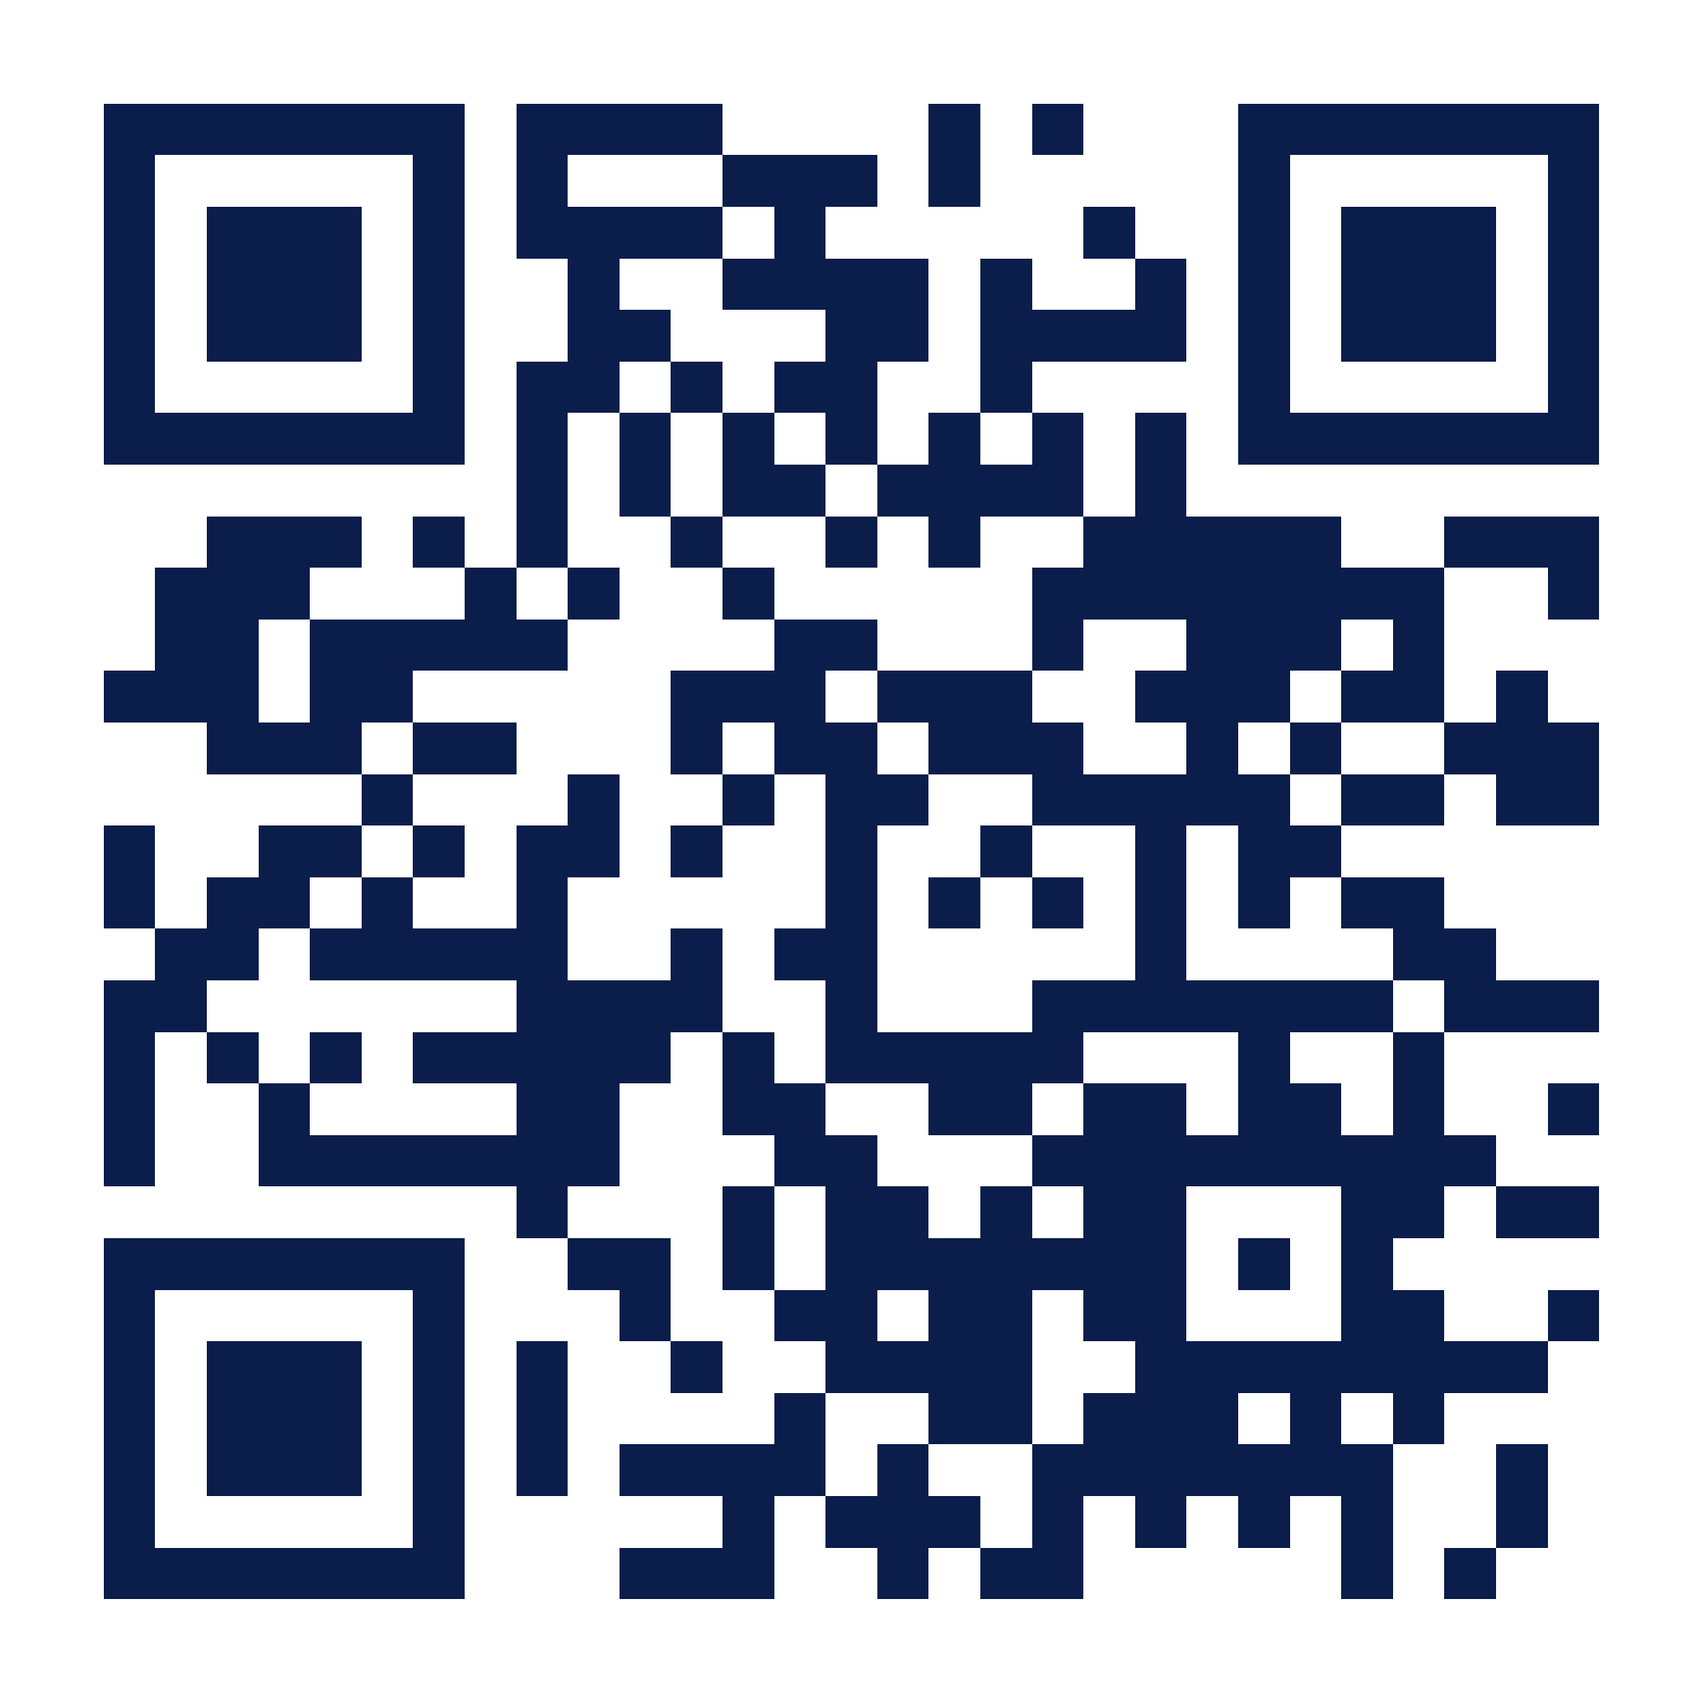
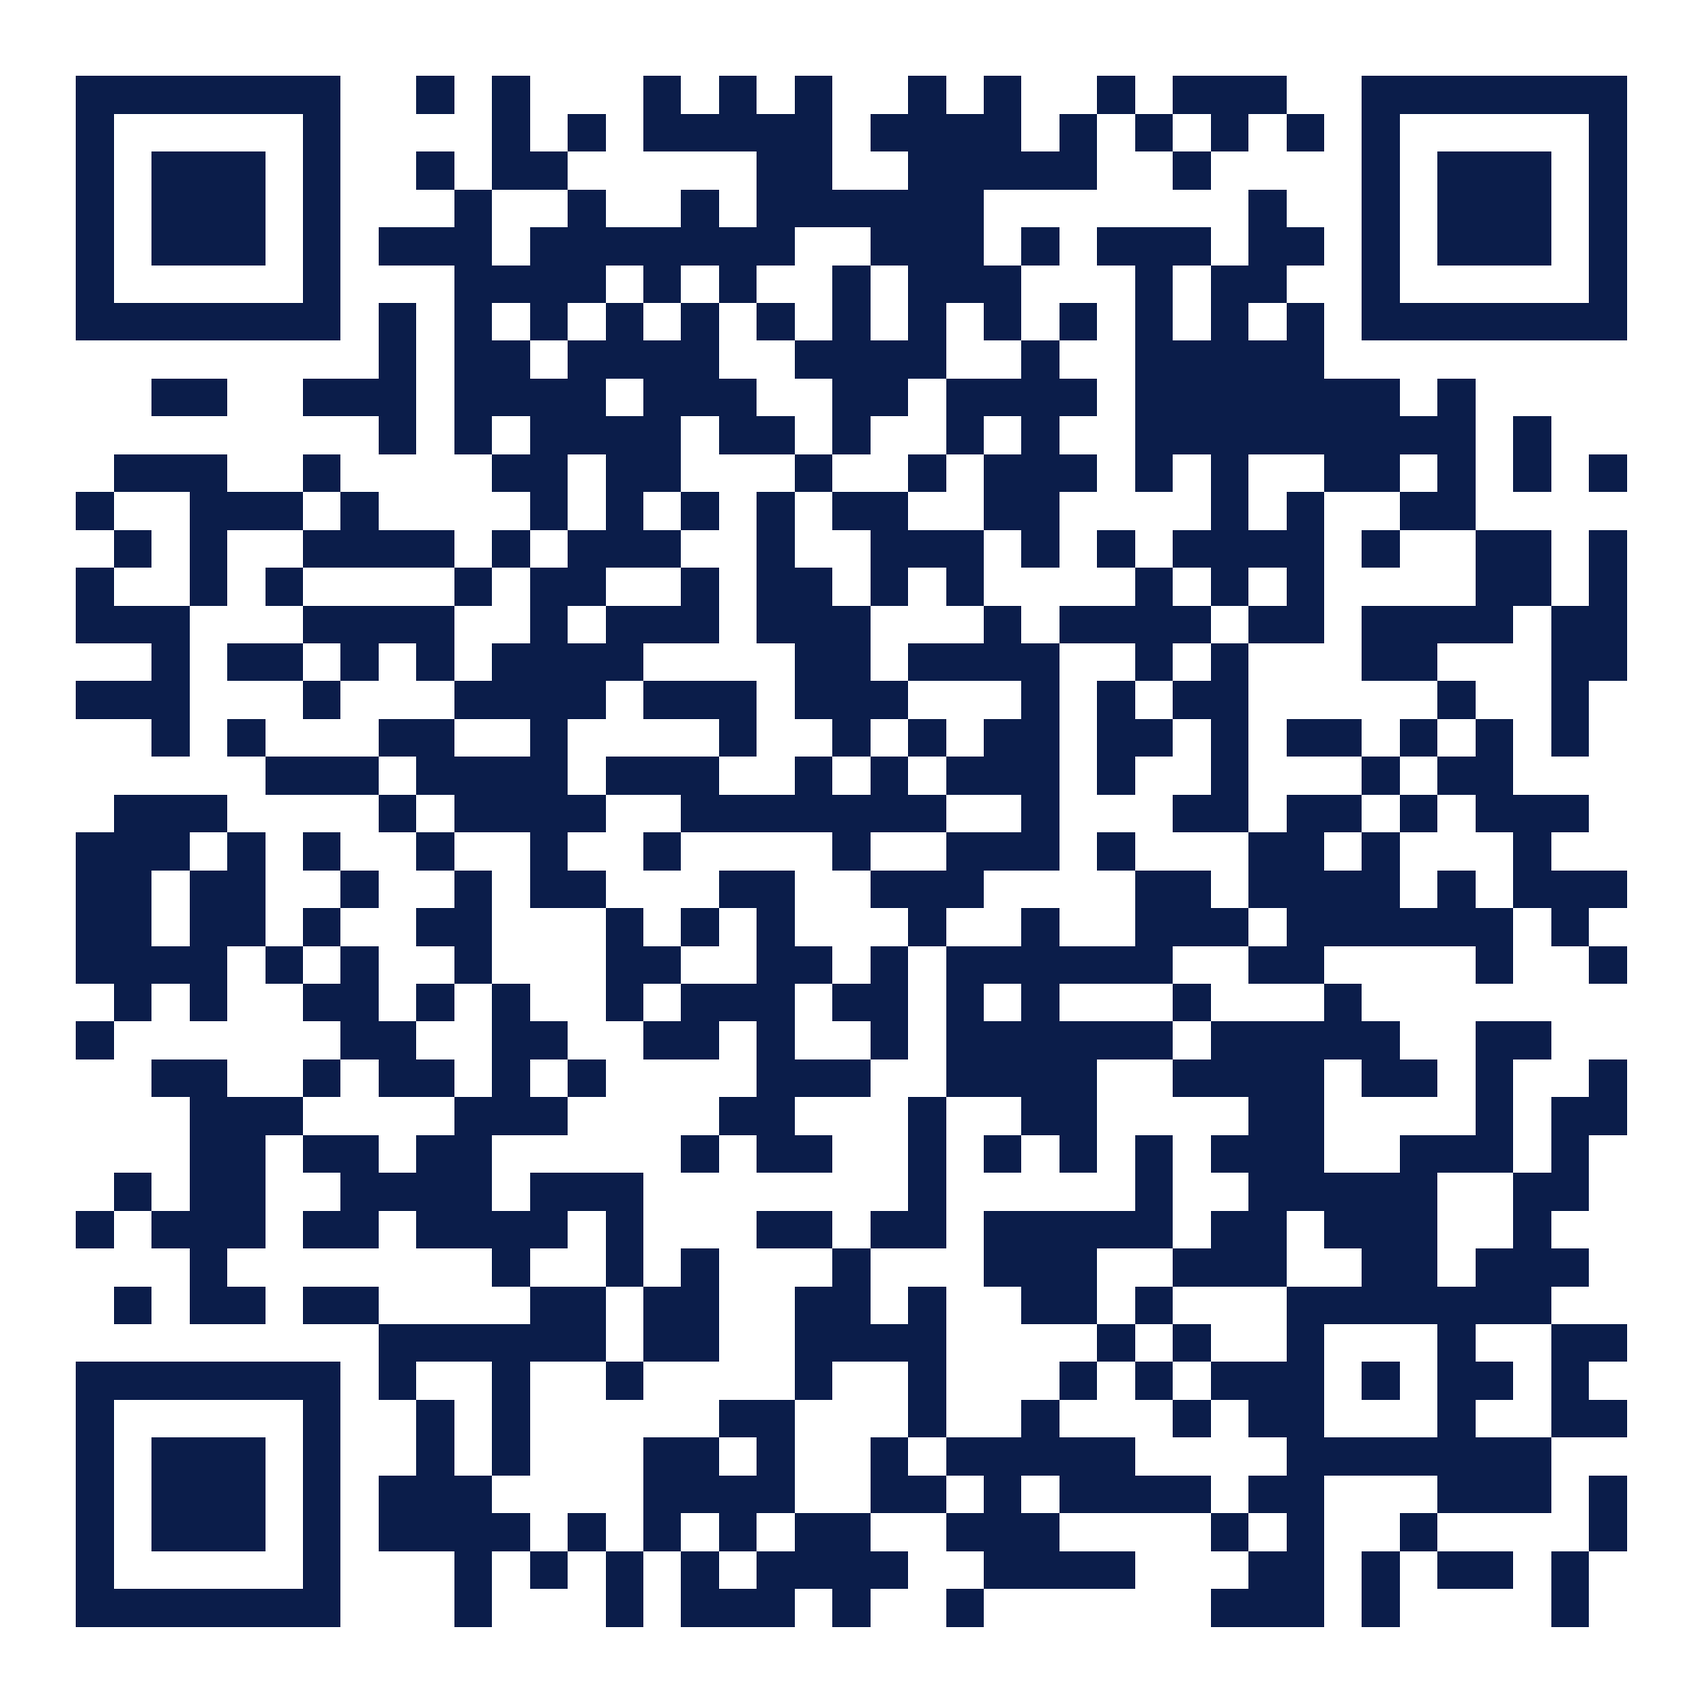
fix: resolve stand QR activation flow, add direct card creation button to locked modal, regenerate all QR assets with direct activation URL, and bump SW to v12

diff --git a/index.html b/index.html
@@ -976,12 +976,16 @@
             </div>
 
             <div class="flex flex-col gap-2.5">
-                <a href="https://topluluk-etkinlik.uludag.edu.tr/Account/Login?ReturnUrl=%2F" target="_blank" rel="noopener noreferrer" class="w-full py-3.5 bg-gradient-to-r from-blue-600 to-blue-700 hover:from-blue-700 hover:to-blue-800 rounded-xl font-bold text-sm text-white shadow-lg transition-all flex items-center justify-center gap-2 min-h-[44px]">
-                    <span>SKS Portalına Git</span>
-                    <i class="fa-solid fa-arrow-up-right-from-square text-xs"></i>
+                <button type="button" onclick="openActivationModal(true)" class="w-full py-4 bg-gradient-to-r from-amber-500 via-amber-400 to-amber-500 hover:from-amber-400 hover:to-amber-500 text-slate-950 font-black rounded-xl text-sm shadow-xl shadow-amber-500/30 transition-all flex items-center justify-center gap-2 min-h-[48px] transform hover:-translate-y-0.5 active:scale-95">
+                    <i class="fa-solid fa-id-card text-base"></i>
+                    <span>✨ Stanttayım / Dijital Kartımı Oluştur</span>
+                </button>
+                <a href="https://topluluk-etkinlik.uludag.edu.tr/Account/Login?ReturnUrl=%2F" target="_blank" rel="noopener noreferrer" class="w-full py-3 bg-white/10 hover:bg-white/15 rounded-xl font-bold text-xs text-white transition-all flex items-center justify-center gap-2 min-h-[42px]">
+                    <span>SKS Resmi Kayıt Portalı</span>
+                    <i class="fa-solid fa-arrow-up-right-from-square text-[11px]"></i>
                 </a>
-                <button onclick="closeUnregisteredModal()" class="w-full py-3 bg-white/10 hover:bg-white/15 rounded-xl font-bold text-sm text-slate-300 transition-all min-h-[44px]">
-                    Anladım, Kapat
+                <button type="button" onclick="closeUnregisteredModal()" class="w-full py-2.5 text-slate-400 hover:text-slate-200 text-xs font-semibold transition-colors">
+                    Kapat
                 </button>
             </div>
 
@@ -1017,9 +1021,9 @@
     <!-- ========================================================================= -->
     <!-- ✨ STANT AKTİVASYON VE KAYIT MODALI (QR OKUTULDUĞUNDA AÇILIR) -->
     <!-- ========================================================================= -->
-    <div id="activationModal" class="fixed inset-0 bg-black/85 backdrop-blur-2xl z-[1000] hidden flex items-center justify-center p-3 sm:p-4 overflow-y-auto" onclick="if(event.target === this) document.getElementById('activationModal').classList.add('hidden')">
+    <div id="activationModal" class="fixed inset-0 bg-black/85 backdrop-blur-2xl z-[1000] hidden flex items-center justify-center p-3 sm:p-4 overflow-y-auto" onclick="if(event.target === this) closeActivationModal()">
         <div class="relative w-full max-w-md bg-gradient-to-b from-[#0e245c] to-[#060f24] rounded-3xl p-5 sm:p-7 border border-amber-400/40 text-white shadow-2xl my-auto max-h-[92dvh] overflow-y-auto modal-scrollable overscroll-contain">
-            <button type="button" onclick="document.getElementById('activationModal').classList.add('hidden')" class="absolute top-4 right-4 w-8 h-8 rounded-full bg-white/10 hover:bg-white/20 text-white flex items-center justify-center transition-colors" aria-label="Kapat">
+            <button type="button" onclick="closeActivationModal()" class="absolute top-4 right-4 w-8 h-8 rounded-full bg-white/10 hover:bg-white/20 text-white flex items-center justify-center transition-colors" aria-label="Kapat">
                 <i class="fa-solid fa-xmark text-base"></i>
             </button>
             
@@ -1049,6 +1053,12 @@
                     <button type="submit" class="w-full py-4 bg-gradient-to-r from-amber-500 via-amber-400 to-amber-500 hover:from-amber-600 hover:to-amber-500 text-slate-950 font-black rounded-xl text-base shadow-xl shadow-amber-500/30 transition-all transform hover:-translate-y-0.5 flex items-center justify-center gap-2 min-h-[48px]">
                         <i class="fa-solid fa-id-card text-lg"></i>
                         <span>Kartımı Oluştur ve Cihazıma Kaydet</span>
+                    </button>
+                </div>
+
+                <div class="pt-2 text-center">
+                    <button type="button" onclick="closeActivationModal(); handleMemberCardClick();" class="text-xs text-amber-300 hover:text-amber-200 underline font-semibold">
+                        Zaten bir kartın var mı? Kartımı Göster
                     </button>
                 </div>
             </form>
@@ -1144,8 +1154,9 @@
             const qrContainer = document.getElementById('adminQrContainer');
             modal.classList.remove('hidden');
 
-            const currentOrigin = window.location.origin + window.location.pathname;
-            const fullActivationUrl = currentOrigin + (currentOrigin.endsWith('/') ? '' : '/') + `?aktivasyon=${SECRET_AUTH_TOKEN}`;
+            const isLocal = window.location.origin.includes('localhost') || window.location.origin.includes('127.0.0.1');
+            const baseUrl = isLocal ? window.location.origin : 'https://uluceeit.com.tr';
+            const fullActivationUrl = `${baseUrl}/?aktivasyon=${SECRET_AUTH_TOKEN}`;
 
             document.getElementById('adminActivationUrlText').textContent = fullActivationUrl;
 

diff --git a/js/member-system.js b/js/member-system.js
@@ -398,13 +398,15 @@
         }
     }
 
-    function openActivationModal() {
+    function openActivationModal(force = false) {
         closeMobileMenu();
         closeUnregisteredModal();
-        const member = getStoredMember();
-        if (member && member.fullName) {
-            handleMemberCardClick();
-            return;
+        if (!force) {
+            const member = getStoredMember();
+            if (member && member.fullName) {
+                handleMemberCardClick();
+                return;
+            }
         }
         const modal = document.getElementById('activationModal');
         if (modal) {
@@ -753,19 +755,39 @@
             menuBtn._hasMemberListener = true;
         }
 
-        // URL Parametreleri (Örn: ?aktivasyon=... veya ?kayit=1)
+        // URL Parametreleri (Örn: ?aktivasyon=CEEIT-2026-ONAY, ?kayit=1, ?uye=1, ?stand=1 vb.)
         const params = new URLSearchParams(window.location.search);
-        const token = params.get('aktivasyon') || params.get('activate');
-        const isRegisterReq = params.get('kayit') === '1' || params.get('register') === '1';
+        const token = (params.get('aktivasyon') || params.get('activate') || '').trim();
+        const hash = (window.location.hash || '').toLowerCase();
 
-        if (token === SECRET_AUTH_TOKEN || isRegisterReq) {
+        const isTokenMatch = token && (
+            token.toUpperCase() === SECRET_AUTH_TOKEN || 
+            token.toUpperCase() === 'ONAY' ||
+            token.toUpperCase() === 'CEEIT'
+        );
+
+        const hasActivationFlag = 
+            isTokenMatch ||
+            params.has('aktivasyon') ||
+            params.has('activate') ||
+            params.has('kayit') ||
+            params.has('register') ||
+            params.has('uye') ||
+            params.has('stand') ||
+            params.has('stant') ||
+            hash.includes('kayit') ||
+            hash.includes('uye') ||
+            hash.includes('aktivasyon') ||
+            hash.includes('stand') ||
+            hash.includes('stant');
+
+        if (hasActivationFlag) {
             setTimeout(() => {
-                openActivationModal();
-                if (typeof confetti === 'function' && token === SECRET_AUTH_TOKEN) {
-                    confetti({ particleCount: 100, spread: 70, origin: { y: 0.6 } });
+                openActivationModal(true);
+                if (typeof confetti === 'function') {
+                    confetti({ particleCount: 120, spread: 80, origin: { y: 0.6 } });
                 }
             }, 300);
-            window.history.replaceState({}, document.title, window.location.pathname);
         }
 
         // Arka planda aktif üye ve hediye senkronizasyonu

diff --git a/cekilis.html b/cekilis.html
@@ -734,12 +734,16 @@
             </div>
 
             <div class="flex flex-col gap-2.5">
-                <a href="https://topluluk-etkinlik.uludag.edu.tr/Account/Login?ReturnUrl=%2F" target="_blank" rel="noopener noreferrer" class="w-full py-3.5 bg-gradient-to-r from-blue-600 to-blue-700 hover:from-blue-700 hover:to-blue-800 rounded-xl font-bold text-sm text-white shadow-lg transition-all flex items-center justify-center gap-2 min-h-[44px]">
-                    <span>SKS Portalına Git</span>
-                    <i class="fa-solid fa-arrow-up-right-from-square text-xs"></i>
+                <button type="button" onclick="openActivationModal(true)" class="w-full py-4 bg-gradient-to-r from-amber-500 via-amber-400 to-amber-500 hover:from-amber-400 hover:to-amber-500 text-slate-950 font-black rounded-xl text-sm shadow-xl shadow-amber-500/30 transition-all flex items-center justify-center gap-2 min-h-[48px] transform hover:-translate-y-0.5 active:scale-95">
+                    <i class="fa-solid fa-id-card text-base"></i>
+                    <span>✨ Stanttayım / Dijital Kartımı Oluştur</span>
+                </button>
+                <a href="https://topluluk-etkinlik.uludag.edu.tr/Account/Login?ReturnUrl=%2F" target="_blank" rel="noopener noreferrer" class="w-full py-3 bg-white/10 hover:bg-white/15 rounded-xl font-bold text-xs text-white transition-all flex items-center justify-center gap-2 min-h-[42px]">
+                    <span>SKS Resmi Kayıt Portalı</span>
+                    <i class="fa-solid fa-arrow-up-right-from-square text-[11px]"></i>
                 </a>
-                <button onclick="closeUnregisteredModal()" class="w-full py-3 bg-white/10 hover:bg-white/15 rounded-xl font-bold text-sm text-slate-300 transition-all min-h-[44px]">
-                    Anladım, Kapat
+                <button type="button" onclick="closeUnregisteredModal()" class="w-full py-2.5 text-slate-400 hover:text-slate-200 text-xs font-semibold transition-colors">
+                    Kapat
                 </button>
             </div>
 

diff --git a/etkinlikler.html b/etkinlikler.html
@@ -619,12 +619,16 @@
             </div>
 
             <div class="flex flex-col gap-2.5">
-                <a href="https://topluluk-etkinlik.uludag.edu.tr/Account/Login?ReturnUrl=%2F" target="_blank" rel="noopener noreferrer" class="w-full py-3.5 bg-gradient-to-r from-blue-600 to-blue-700 hover:from-blue-700 hover:to-blue-800 rounded-xl font-bold text-sm text-white shadow-lg transition-all flex items-center justify-center gap-2 min-h-[44px]">
-                    <span>SKS Portalına Git</span>
-                    <i class="fa-solid fa-arrow-up-right-from-square text-xs"></i>
+                <button type="button" onclick="openActivationModal(true)" class="w-full py-4 bg-gradient-to-r from-amber-500 via-amber-400 to-amber-500 hover:from-amber-400 hover:to-amber-500 text-slate-950 font-black rounded-xl text-sm shadow-xl shadow-amber-500/30 transition-all flex items-center justify-center gap-2 min-h-[48px] transform hover:-translate-y-0.5 active:scale-95">
+                    <i class="fa-solid fa-id-card text-base"></i>
+                    <span>✨ Stanttayım / Dijital Kartımı Oluştur</span>
+                </button>
+                <a href="https://topluluk-etkinlik.uludag.edu.tr/Account/Login?ReturnUrl=%2F" target="_blank" rel="noopener noreferrer" class="w-full py-3 bg-white/10 hover:bg-white/15 rounded-xl font-bold text-xs text-white transition-all flex items-center justify-center gap-2 min-h-[42px]">
+                    <span>SKS Resmi Kayıt Portalı</span>
+                    <i class="fa-solid fa-arrow-up-right-from-square text-[11px]"></i>
                 </a>
-                <button onclick="closeUnregisteredModal()" class="w-full py-3 bg-white/10 hover:bg-white/15 rounded-xl font-bold text-sm text-slate-300 transition-all min-h-[44px]">
-                    Anladım, Kapat
+                <button type="button" onclick="closeUnregisteredModal()" class="w-full py-2.5 text-slate-400 hover:text-slate-200 text-xs font-semibold transition-colors">
+                    Kapat
                 </button>
             </div>
 

diff --git a/hakkimizda.html b/hakkimizda.html
@@ -971,12 +971,16 @@
             </div>
 
             <div class="flex flex-col gap-2.5">
-                <a href="https://topluluk-etkinlik.uludag.edu.tr/Account/Login?ReturnUrl=%2F" target="_blank" rel="noopener noreferrer" class="w-full py-3.5 bg-gradient-to-r from-blue-600 to-blue-700 hover:from-blue-700 hover:to-blue-800 rounded-xl font-bold text-sm text-white shadow-lg transition-all flex items-center justify-center gap-2 min-h-[44px]">
-                    <span>SKS Portalına Git</span>
-                    <i class="fa-solid fa-arrow-up-right-from-square text-xs"></i>
+                <button type="button" onclick="openActivationModal(true)" class="w-full py-4 bg-gradient-to-r from-amber-500 via-amber-400 to-amber-500 hover:from-amber-400 hover:to-amber-500 text-slate-950 font-black rounded-xl text-sm shadow-xl shadow-amber-500/30 transition-all flex items-center justify-center gap-2 min-h-[48px] transform hover:-translate-y-0.5 active:scale-95">
+                    <i class="fa-solid fa-id-card text-base"></i>
+                    <span>✨ Stanttayım / Dijital Kartımı Oluştur</span>
+                </button>
+                <a href="https://topluluk-etkinlik.uludag.edu.tr/Account/Login?ReturnUrl=%2F" target="_blank" rel="noopener noreferrer" class="w-full py-3 bg-white/10 hover:bg-white/15 rounded-xl font-bold text-xs text-white transition-all flex items-center justify-center gap-2 min-h-[42px]">
+                    <span>SKS Resmi Kayıt Portalı</span>
+                    <i class="fa-solid fa-arrow-up-right-from-square text-[11px]"></i>
                 </a>
-                <button onclick="closeUnregisteredModal()" class="w-full py-3 bg-white/10 hover:bg-white/15 rounded-xl font-bold text-sm text-slate-300 transition-all min-h-[44px]">
-                    Anladım, Kapat
+                <button type="button" onclick="closeUnregisteredModal()" class="w-full py-2.5 text-slate-400 hover:text-slate-200 text-xs font-semibold transition-colors">
+                    Kapat
                 </button>
             </div>
 

diff --git a/sponsorlar.html b/sponsorlar.html
@@ -608,12 +608,16 @@
             </div>
 
             <div class="flex flex-col gap-2.5">
-                <a href="https://topluluk-etkinlik.uludag.edu.tr/Account/Login?ReturnUrl=%2F" target="_blank" rel="noopener noreferrer" class="w-full py-3.5 bg-gradient-to-r from-blue-600 to-blue-700 hover:from-blue-700 hover:to-blue-800 rounded-xl font-bold text-sm text-white shadow-lg transition-all flex items-center justify-center gap-2 min-h-[44px]">
-                    <span>SKS Portalına Git</span>
-                    <i class="fa-solid fa-arrow-up-right-from-square text-xs"></i>
+                <button type="button" onclick="openActivationModal(true)" class="w-full py-4 bg-gradient-to-r from-amber-500 via-amber-400 to-amber-500 hover:from-amber-400 hover:to-amber-500 text-slate-950 font-black rounded-xl text-sm shadow-xl shadow-amber-500/30 transition-all flex items-center justify-center gap-2 min-h-[48px] transform hover:-translate-y-0.5 active:scale-95">
+                    <i class="fa-solid fa-id-card text-base"></i>
+                    <span>✨ Stanttayım / Dijital Kartımı Oluştur</span>
+                </button>
+                <a href="https://topluluk-etkinlik.uludag.edu.tr/Account/Login?ReturnUrl=%2F" target="_blank" rel="noopener noreferrer" class="w-full py-3 bg-white/10 hover:bg-white/15 rounded-xl font-bold text-xs text-white transition-all flex items-center justify-center gap-2 min-h-[42px]">
+                    <span>SKS Resmi Kayıt Portalı</span>
+                    <i class="fa-solid fa-arrow-up-right-from-square text-[11px]"></i>
                 </a>
-                <button onclick="closeUnregisteredModal()" class="w-full py-3 bg-white/10 hover:bg-white/15 rounded-xl font-bold text-sm text-slate-300 transition-all min-h-[44px]">
-                    Anladım, Kapat
+                <button type="button" onclick="closeUnregisteredModal()" class="w-full py-2.5 text-slate-400 hover:text-slate-200 text-xs font-semibold transition-colors">
+                    Kapat
                 </button>
             </div>
 

diff --git a/kutu-baski.html b/kutu-baski.html
@@ -567,7 +567,7 @@
   </div>
 
   <script>
-    const QR_URL = "https://uluceeit.com.tr";
+    const QR_URL = "https://uluceeit.com.tr/?aktivasyon=CEEIT-2026-ONAY";
 
     function generateQRCodes() {
       const faces = ["on", "arka", "sag", "sol"];

diff --git a/sw.js b/sw.js
@@ -1,4 +1,4 @@
-const CACHE_NAME = 'uluceeit-pwa-v11';
+const CACHE_NAME = 'uluceeit-pwa-v12';
 const STATIC_ASSETS = [
   './',
   './index.html',
